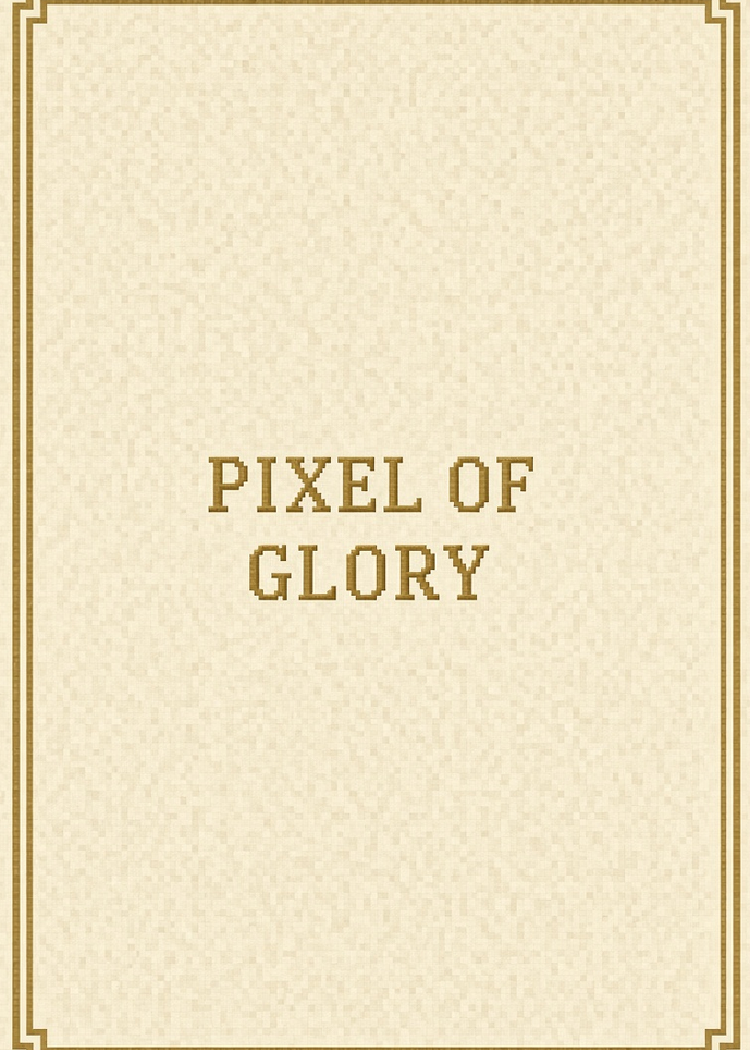
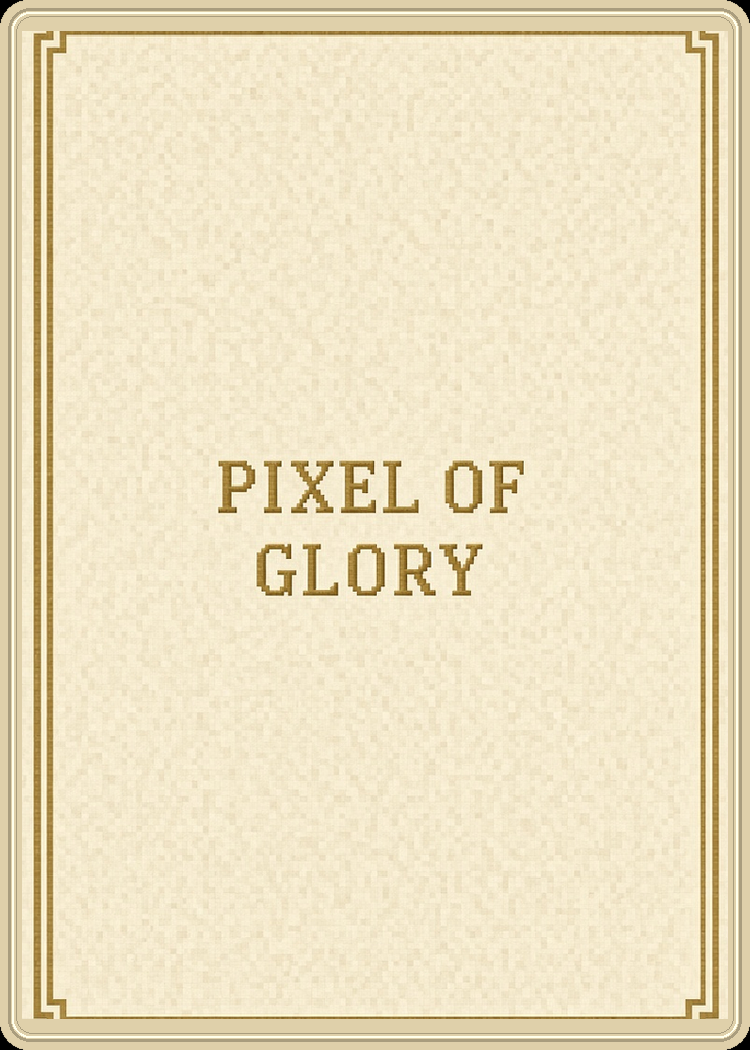
Recadre les 8 cartes Best et ajoute les alternatives 03
Cadres équilibrés au format poker, 5 dispositions du titre
Pixel of Glory, et pièces plus lisibles sur l’échelle d’OR.

Changed region(s): [[0.0, 0.0, 1.0, 1.0], [0.276, 0.4267, 0.7053, 0.4876], [0.3067, 0.5181, 0.644, 0.579]]

diff --git a/dos des cartes et echelle de l'or/Best/apercu.html b/dos des cartes et echelle de l'or/Best/apercu.html
@@ -1,0 +1,98 @@
+<!DOCTYPE html>
+<html lang="fr">
+<head>
+<meta charset="utf-8">
+<title>Best — dos et échelle d'OR recadrés</title>
+<style>
+  :root { background:#12141c; color:#f3e6c4; font-family:Georgia, serif; }
+  body { max-width:1400px; margin:32px auto; padding:0 20px; }
+  h1, h2 { font-weight:normal; letter-spacing:.04em; }
+  p { color:#cbb98a; max-width:78ch; line-height:1.45; }
+  .grid { display:grid; grid-template-columns:repeat(auto-fit,minmax(170px,1fr)); gap:16px; margin:18px 0 36px; }
+  .pair { display:grid; grid-template-columns:1fr 1fr; gap:10px; }
+  figure { margin:0; background:#0e0b08; border:1px solid #5a4520; border-radius:8px; overflow:hidden; }
+  img { width:100%; height:auto; display:block; }
+  figcaption { padding:8px 10px 12px; font-size:13px; color:#e8d5a0; }
+  a { color:#e8c36a; }
+</style>
+</head>
+<body>
+  <h1>Best — 8 cartes recadrées (750×1050)</h1>
+  <p>
+    Les 7 dos et l’échelle d’OR ont un cadre équilibré (même marge de chaque côté).
+    Les originaux sont dans <code>original/</code>.
+    Les 5 alternatives de la 03 et l’échelle avec pièces plus grosses sont dans
+    <a href="alternative/apercu.html">alternative/</a>.
+  </p>
+  <h2>Versions recadrées</h2>
+  <div class="grid">
+    <figure><img src="01_brun_or_laurier.png" alt="01"><figcaption>01. Brun, or, laurier</figcaption></figure>
+    <figure><img src="02_donjon_enroule.png" alt="02"><figcaption>02. Échelle d’OR — pièces plus grosses</figcaption></figure>
+    <figure><img src="03_brun_bleu_rouge.png" alt="03"><figcaption>03. Brun, bleu / rouge</figcaption></figure>
+    <figure><img src="07_bois_or.png" alt="07"><figcaption>07. Bois, titre or</figcaption></figure>
+    <figure><img src="10_pourpre_or_seul.png" alt="10"><figcaption>10. Pourpre, titre or</figcaption></figure>
+    <figure><img src="13_ivoire_or.png" alt="13"><figcaption>13. Ivoire, titre or</figcaption></figure>
+    <figure><img src="17_ivoire_bleu_laurier.png" alt="17"><figcaption>17. Ivoire, couleur, laurier</figcaption></figure>
+    <figure><img src="29_titre.png" alt="29"><figcaption>29. Titre Pixel of Glory</figcaption></figure>
+  </div>
+  <h2>Avant / après (original à gauche)</h2>
+  <div class="grid">
+    <figure>
+      <div class="pair">
+        <img src="original/01_brun_or_laurier.png" alt="01 orig">
+        <img src="01_brun_or_laurier.png" alt="01 new">
+      </div>
+      <figcaption>01 brun or laurier</figcaption>
+    </figure>
+    <figure>
+      <div class="pair">
+        <img src="original/02_donjon_enroule.png" alt="02 orig">
+        <img src="02_donjon_enroule.png" alt="02 new">
+      </div>
+      <figcaption>02 donjon enroulé</figcaption>
+    </figure>
+    <figure>
+      <div class="pair">
+        <img src="original/03_brun_bleu_rouge.png" alt="03 orig">
+        <img src="03_brun_bleu_rouge.png" alt="03 new">
+      </div>
+      <figcaption>03 brun bleu rouge</figcaption>
+    </figure>
+    <figure>
+      <div class="pair">
+        <img src="original/07_bois_or.png" alt="07 orig">
+        <img src="07_bois_or.png" alt="07 new">
+      </div>
+      <figcaption>07 bois or</figcaption>
+    </figure>
+    <figure>
+      <div class="pair">
+        <img src="original/10_pourpre_or_seul.png" alt="10 orig">
+        <img src="10_pourpre_or_seul.png" alt="10 new">
+      </div>
+      <figcaption>10 pourpre or</figcaption>
+    </figure>
+    <figure>
+      <div class="pair">
+        <img src="original/13_ivoire_or.png" alt="13 orig">
+        <img src="13_ivoire_or.png" alt="13 new">
+      </div>
+      <figcaption>13 ivoire or</figcaption>
+    </figure>
+    <figure>
+      <div class="pair">
+        <img src="original/17_ivoire_bleu_laurier.png" alt="17 orig">
+        <img src="17_ivoire_bleu_laurier.png" alt="17 new">
+      </div>
+      <figcaption>17 ivoire bleu laurier</figcaption>
+    </figure>
+    <figure>
+      <div class="pair">
+        <img src="original/29_titre.png" alt="29 orig">
+        <img src="29_titre.png" alt="29 new">
+      </div>
+      <figcaption>29 titre</figcaption>
+    </figure>
+  </div>
+</body>
+</html>

diff --git a/dos des cartes et echelle de l'or/Best/alternative/apercu.html b/dos des cartes et echelle de l'or/Best/alternative/apercu.html
@@ -1,0 +1,64 @@
+<!DOCTYPE html>
+<html lang="fr">
+<head>
+<meta charset="utf-8">
+<title>Best / alternative — 03 et échelle d'OR</title>
+<style>
+  :root { background:#12141c; color:#f3e6c4; font-family:Georgia, serif; }
+  body { max-width:1400px; margin:32px auto; padding:0 20px; }
+  h1, h2 { font-weight:normal; letter-spacing:.04em; }
+  p { color:#cbb98a; max-width:78ch; line-height:1.45; }
+  .grid { display:grid; grid-template-columns:repeat(auto-fit,minmax(180px,1fr)); gap:16px; margin:18px 0 36px; }
+  figure { margin:0; background:#0e0b08; border:1px solid #5a4520; border-radius:8px; overflow:hidden; }
+  img { width:100%; height:auto; display:block; }
+  figcaption { padding:8px 10px 12px; font-size:13px; color:#e8d5a0; }
+  a { color:#e8c36a; }
+</style>
+</head>
+<body>
+  <h1>Alternatives</h1>
+  <p>
+    Cinq dispositions du titre sur le dos 03 (brun, bleu, rouge), plus l’échelle d’OR
+    avec des pièces un peu plus grosses. Format poker 750×1050.
+    <a href="../apercu.html">Retour aux Best recadrés</a>.
+  </p>
+  <h2>03 brun bleu rouge — 5 titres</h2>
+  <div class="grid">
+    <figure>
+      <img src="../03_brun_bleu_rouge.png" alt="03 originale recadrée">
+      <figcaption>Origine (recadrée) — PIXEL OF / GLORY</figcaption>
+    </figure>
+    <figure>
+      <img src="03a_pixel_ofglory.png" alt="03a">
+      <figcaption>A. PIXEL / OF GLORY</figcaption>
+    </figure>
+    <figure>
+      <img src="03b_pixelof_glory.png" alt="03b">
+      <figcaption>B. PIXEL OF / GLORY</figcaption>
+    </figure>
+    <figure>
+      <img src="03c_une_ligne.png" alt="03c">
+      <figcaption>C. PIXEL OF GLORY (une ligne)</figcaption>
+    </figure>
+    <figure>
+      <img src="03d_logo_laurier.png" alt="03d">
+      <figcaption>D. Logo laurier (comme la 01) + titre</figcaption>
+    </figure>
+    <figure>
+      <img src="03e_trois_lignes.png" alt="03e">
+      <figcaption>E. PIXEL / OF / GLORY</figcaption>
+    </figure>
+  </div>
+  <h2>Échelle d’OR — pièces plus lisibles</h2>
+  <div class="grid">
+    <figure>
+      <img src="../original/02_donjon_enroule.png" alt="02 orig">
+      <figcaption>02 originale</figcaption>
+    </figure>
+    <figure>
+      <img src="02_donjon_enroule_pieces_grosses.png" alt="02 big">
+      <figcaption>02 pièces plus grosses</figcaption>
+    </figure>
+  </div>
+</body>
+</html>

diff --git a/dos des cartes et echelle de l'or/scripts/preparer_best.py b/dos des cartes et echelle de l'or/scripts/preparer_best.py
@@ -1,0 +1,225 @@
+#!/usr/bin/env python3
+"""Recadre les 8 cartes Best, agrandit les pièces de 02, exporte les alt. 03."""
+from __future__ import annotations
+
+import importlib.util
+from pathlib import Path
+
+import numpy as np
+from PIL import Image, ImageDraw, ImageFilter
+
+ROOT = Path(__file__).resolve().parents[1]
+BEST = ROOT / "Best"
+ORIG = BEST / "original"
+ALT = BEST / "alternative"
+CARD_W, CARD_H = 750, 1050
+RADIUS = 28
+MARGIN = 22  # espace égal autour du cadre
+
+spec = importlib.util.spec_from_file_location(
+    "generer_echelle_or", Path(__file__).with_name("generer_echelle_or.py")
+)
+geo = importlib.util.module_from_spec(spec)
+spec.loader.exec_module(geo)
+
+
+def sample_rim(arr: np.ndarray, band: int = 6) -> tuple[int, int, int]:
+    rim = np.concatenate(
+        [
+            arr[:band].reshape(-1, 3),
+            arr[-band:].reshape(-1, 3),
+            arr[:, :band].reshape(-1, 3),
+            arr[:, -band:].reshape(-1, 3),
+        ]
+    )
+    return tuple(int(x) for x in rim.mean(0))
+
+
+def sample_gold(arr: np.ndarray) -> tuple[int, int, int]:
+    r, g, b = arr[..., 0], arr[..., 1], arr[..., 2]
+    gold = (r > 120) & (r > g + 8) & (r > b + 25) & (g > 50)
+    if gold.sum() < 80:
+        return (196, 148, 64)
+    mean = arr[gold].mean(0)
+    return tuple(int(x) for x in mean)
+
+
+def round_card(im: Image.Image, radius: int = RADIUS) -> Image.Image:
+    card = im.convert("RGBA")
+    mask = Image.new("L", (CARD_W, CARD_H), 0)
+    ImageDraw.Draw(mask).rounded_rectangle(
+        (0, 0, CARD_W - 1, CARD_H - 1), radius=radius, fill=255
+    )
+    mask = mask.filter(ImageFilter.GaussianBlur(0.35))
+    out = Image.new("RGBA", (CARD_W, CARD_H), (0, 0, 0, 255))
+    out.paste(card, (0, 0))
+    out.putalpha(mask)
+    bg = Image.new("RGBA", (CARD_W, CARD_H), (0, 0, 0, 255))
+    return Image.alpha_composite(bg, out).convert("RGB")
+
+
+def rebalance(im: Image.Image, margin: int = MARGIN, frame: bool = True) -> Image.Image:
+    """Réduit un peu, centre, mêmes marges, cadre or complet."""
+    im = im.convert("RGB")
+    arr = np.asarray(im)
+    fill = sample_rim(arr)
+    gold = sample_gold(arr)
+    inner_w, inner_h = CARD_W - 2 * margin, CARD_H - 2 * margin
+    src_w, src_h = im.size
+    scale = min(inner_w / src_w, inner_h / src_h)
+    nw, nh = max(1, round(src_w * scale)), max(1, round(src_h * scale))
+    resized = im.resize((nw, nh), Image.Resampling.LANCZOS)
+    canvas = Image.new("RGB", (CARD_W, CARD_H), fill)
+    x = (CARD_W - nw) // 2
+    y = (CARD_H - nh) // 2
+    canvas.paste(resized, (x, y))
+
+    if frame:
+        d = ImageDraw.Draw(canvas)
+        dark = tuple(max(0, c - 70) for c in gold)
+        light = tuple(min(255, c + 40) for c in gold)
+        # double filet, même inset des 4 côtés
+        m1, m2, m3 = 8, 12, 16
+        d.rounded_rectangle((m1, m1, CARD_W - 1 - m1, CARD_H - 1 - m1), radius=22, outline=dark, width=3)
+        d.rounded_rectangle((m2, m2, CARD_W - 1 - m2, CARD_H - 1 - m2), radius=18, outline=light, width=2)
+        d.rounded_rectangle((m3, m3, CARD_W - 1 - m3, CARD_H - 1 - m3), radius=16, outline=dark, width=1)
+    return round_card(canvas)
+
+
+def contain_poker(im: Image.Image, margin: int = MARGIN, frame: bool = True) -> Image.Image:
+    """Fit entier (3:4 → poker) avec marges, sans couper le cadre."""
+    im = im.convert("RGB")
+    arr = np.asarray(im)
+    fill = sample_rim(arr)
+    gold = sample_gold(arr)
+    inner_w, inner_h = CARD_W - 2 * margin, CARD_H - 2 * margin
+    src_w, src_h = im.size
+    scale = min(inner_w / src_w, inner_h / src_h)
+    nw, nh = max(1, round(src_w * scale)), max(1, round(src_h * scale))
+    resized = im.resize((nw, nh), Image.Resampling.LANCZOS)
+    canvas = Image.new("RGB", (CARD_W, CARD_H), fill)
+    canvas.paste(resized, ((CARD_W - nw) // 2, (CARD_H - nh) // 2))
+    if frame:
+        d = ImageDraw.Draw(canvas)
+        dark = tuple(max(0, c - 70) for c in gold)
+        light = tuple(min(255, c + 40) for c in gold)
+        d.rounded_rectangle((8, 8, CARD_W - 9, CARD_H - 9), radius=22, outline=dark, width=3)
+        d.rounded_rectangle((12, 12, CARD_W - 13, CARD_H - 13), radius=18, outline=light, width=2)
+    return round_card(canvas)
+
+
+# Centres mesurés sur 02_donjon_enroule (cy, cx) → valeur, rotation adversaire
+COINS_02 = [
+    (98.5, 298.2, 4, True),
+    (94.2, 464.5, 5, True),
+    (215.7, 612.3, 6, True),
+    (197.6, 174.0, 3, True),
+    (341.8, 135.1, 2, True),
+    (477.2, 217.1, 1, True),
+    (499.3, 344.9, 0, False),
+    (533.7, 517.5, 1, False),
+    (655.9, 608.2, 2, False),
+    (833.9, 560.4, 3, False),
+    (926.5, 407.3, 4, False),
+    (905.8, 249.8, 5, False),
+    (800.7, 137.4, 6, False),
+]
+
+
+def bigger_coins_02(src: Image.Image) -> Image.Image:
+    """Repose des pièces plus grandes (chiffres plus lisibles) sur le donjon.
+
+    Pas de nouveau ruban : on couvre les anciennes pièces, plein cadre.
+    """
+    canvas = src.convert("RGBA")
+    coin_src = geo.chromakey_magenta(Image.open(ROOT / "Old" / "fonds" / "piece_or_pixel.jpg"))
+    w, h = coin_src.size
+    side = max(w, h)
+    blank = Image.new("RGBA", (side, side), (0, 0, 0, 0))
+    blank.paste(coin_src, ((side - w) // 2, (side - h) // 2), coin_src)
+
+    # Légèrement plus grandes, sans se chevaucher. 0 un peu plus large.
+    coin_size, zero_size, digit = 118, 136, 7
+    # Recalage visuel : le 0 d’origine a un gros médaillon décalé à droite.
+    coins = []
+    for cy, cx, val, rot in COINS_02:
+        if val == 0:
+            cx += 22
+            cy += 2
+        elif val == 1 and not rot:
+            cx += 14
+            cy += 6
+        elif val == 2 and not rot:
+            cx += 12
+            cy += 10
+        coins.append((cy, cx, val, rot))
+    cover = ImageDraw.Draw(canvas)
+    for cy, cx, val, rot in coins:
+        size = zero_size if val == 0 else coin_size
+        extra = 16 if val == 0 else 5
+        r = size / 2 + extra
+        # or : recouvre l’ancienne pièce / le médaillon sans manger le ruban
+        cover.ellipse((cx - r, cy - r, cx + r, cy + r), fill=(186, 132, 36, 255))
+    coins.sort(key=lambda t: 1 if t[2] == 0 else 0)
+    for cy, cx, val, rot in coins:
+        size = zero_size if val == 0 else coin_size
+        if val == 0:
+            geo.draw_zero_medallion(canvas, cx, cy, size)
+        geo.paste_shadow(canvas, size, cx, cy, strength=100)
+        coin = blank.resize((size, size), Image.Resampling.LANCZOS)
+        stamped = geo.stamp_number(coin, val, rot, digit if val != 0 else digit + 1)
+        canvas.alpha_composite(stamped, (int(cx - size / 2), int(cy - size / 2)))
+    return round_card(canvas.convert("RGB"))
+
+
+ALTS = [
+    ("alt03_a_pixel_ofglory.jpg", "03a_pixel_ofglory.png", "PIXEL / OF GLORY"),
+    ("alt03_b_pixelof_glory.jpg", "03b_pixelof_glory.png", "PIXEL OF / GLORY"),
+    ("alt03_c_oneline.jpg", "03c_une_ligne.png", "PIXEL OF GLORY (une ligne)"),
+    ("alt03_d_logo_laurier.jpg", "03d_logo_laurier.png", "Logo laurier + titre"),
+    ("alt03_e_three_lines.jpg", "03e_trois_lignes.png", "PIXEL / OF / GLORY"),
+]
+
+
+def main() -> None:
+    ORIG.mkdir(parents=True, exist_ok=True)
+    ALT.mkdir(parents=True, exist_ok=True)
+    assets = Path("/opt/cursor/artifacts/assets")
+
+    backs = [
+        "01_brun_or_laurier.png",
+        "03_brun_bleu_rouge.png",
+        "07_bois_or.png",
+        "10_pourpre_or_seul.png",
+        "13_ivoire_or.png",
+        "17_ivoire_bleu_laurier.png",
+        "29_titre.png",
+    ]
+    for name in backs:
+        src = ORIG / name
+        im = Image.open(src)
+        out = rebalance(im, margin=MARGIN, frame=True)
+        dest = BEST / name
+        out.save(dest, "PNG", optimize=True)
+        print("rebalance", dest, out.size)
+
+    # 02 : pièces plus grosses, plein cadre (pas de passe-partout brun)
+    raw02 = Image.open(ORIG / "02_donjon_enroule.png")
+    rec02 = bigger_coins_02(raw02)
+    rec02.save(BEST / "02_donjon_enroule.png", "PNG", optimize=True)
+    rec02.save(ALT / "02_donjon_enroule_pieces_grosses.png", "PNG", optimize=True)
+    print("02 bigger coins")
+
+    for src_name, dest_name, cap in ALTS:
+        src = assets / src_name
+        im = Image.open(src)
+        out = contain_poker(im, margin=20, frame=True)
+        dest = ALT / dest_name
+        out.save(dest, "PNG", optimize=True)
+        print("alt", cap, dest, out.size)
+
+    print("ok")
+
+
+if __name__ == "__main__":
+    main()
